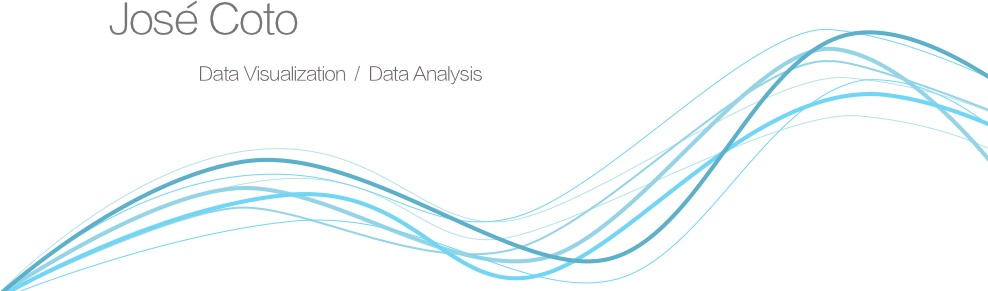
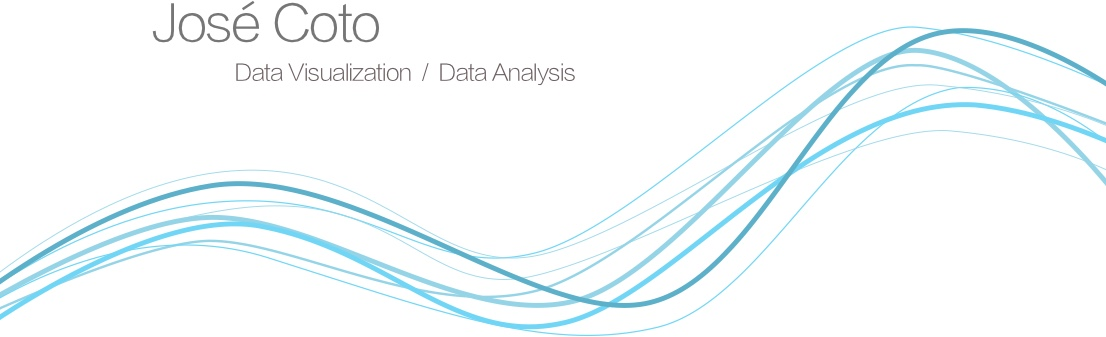
Modifies central images and about page image.

diff --git a/about.html b/about.html
@@ -4,7 +4,7 @@ permalink: /about/
 ---
 
 <div class="row">
-	<div class="col-md-4 text-center">
+	<div class="col-md-4 text-center personal-pic-vert">
 		<img class="personal-pic img-fluid" src="/img-layout/about-pic.jpg">
 	</div>
 	<div class="col-md-8 about-content">
@@ -13,5 +13,6 @@ permalink: /about/
 	<p>Two of the things I enjoy the most is learning and teaching. Personally, I found it quite daunting trying to make sense of all the data analysis tools out there. I created this blog to keep track of the things I am learning with the hope it will help others too. Feel free to check my current projects or contact me.</p>
 	</div>
 </div>
+
 
 

diff --git a/css/responsive.css b/css/responsive.css
@@ -9,6 +9,10 @@
     width: 250px;
     height: 175px;
   }
+
+  .personal-pic {
+    margin-bottom: 30px;
+  }
 }
 
 @media (min-width: 550px) {
@@ -16,7 +20,11 @@
   .post-extract{
     font-size: 16px;
     line-height: 22px;
-}
+  }
+
+  .personal-pic {
+    margin-bottom: 30px;
+  }
 
 
 }
@@ -83,6 +91,12 @@
 
   .post-content h2 {
     font-size: 30px;
+  }
+
+  /*About page*/
+
+  .personal-pic-vert{
+    margin: auto 0px;
   }
 
 }

diff --git a/css/main.css b/css/main.css
@@ -254,8 +254,10 @@ a:visited {
 /*About*/
 
 .personal-pic {
+	height: 200px;
+	width: 200px;
 	border-radius: 50%;
-	margin-bottom: 50px;
+	margin-bottom: 0px;
 }
 
 .about-content {
